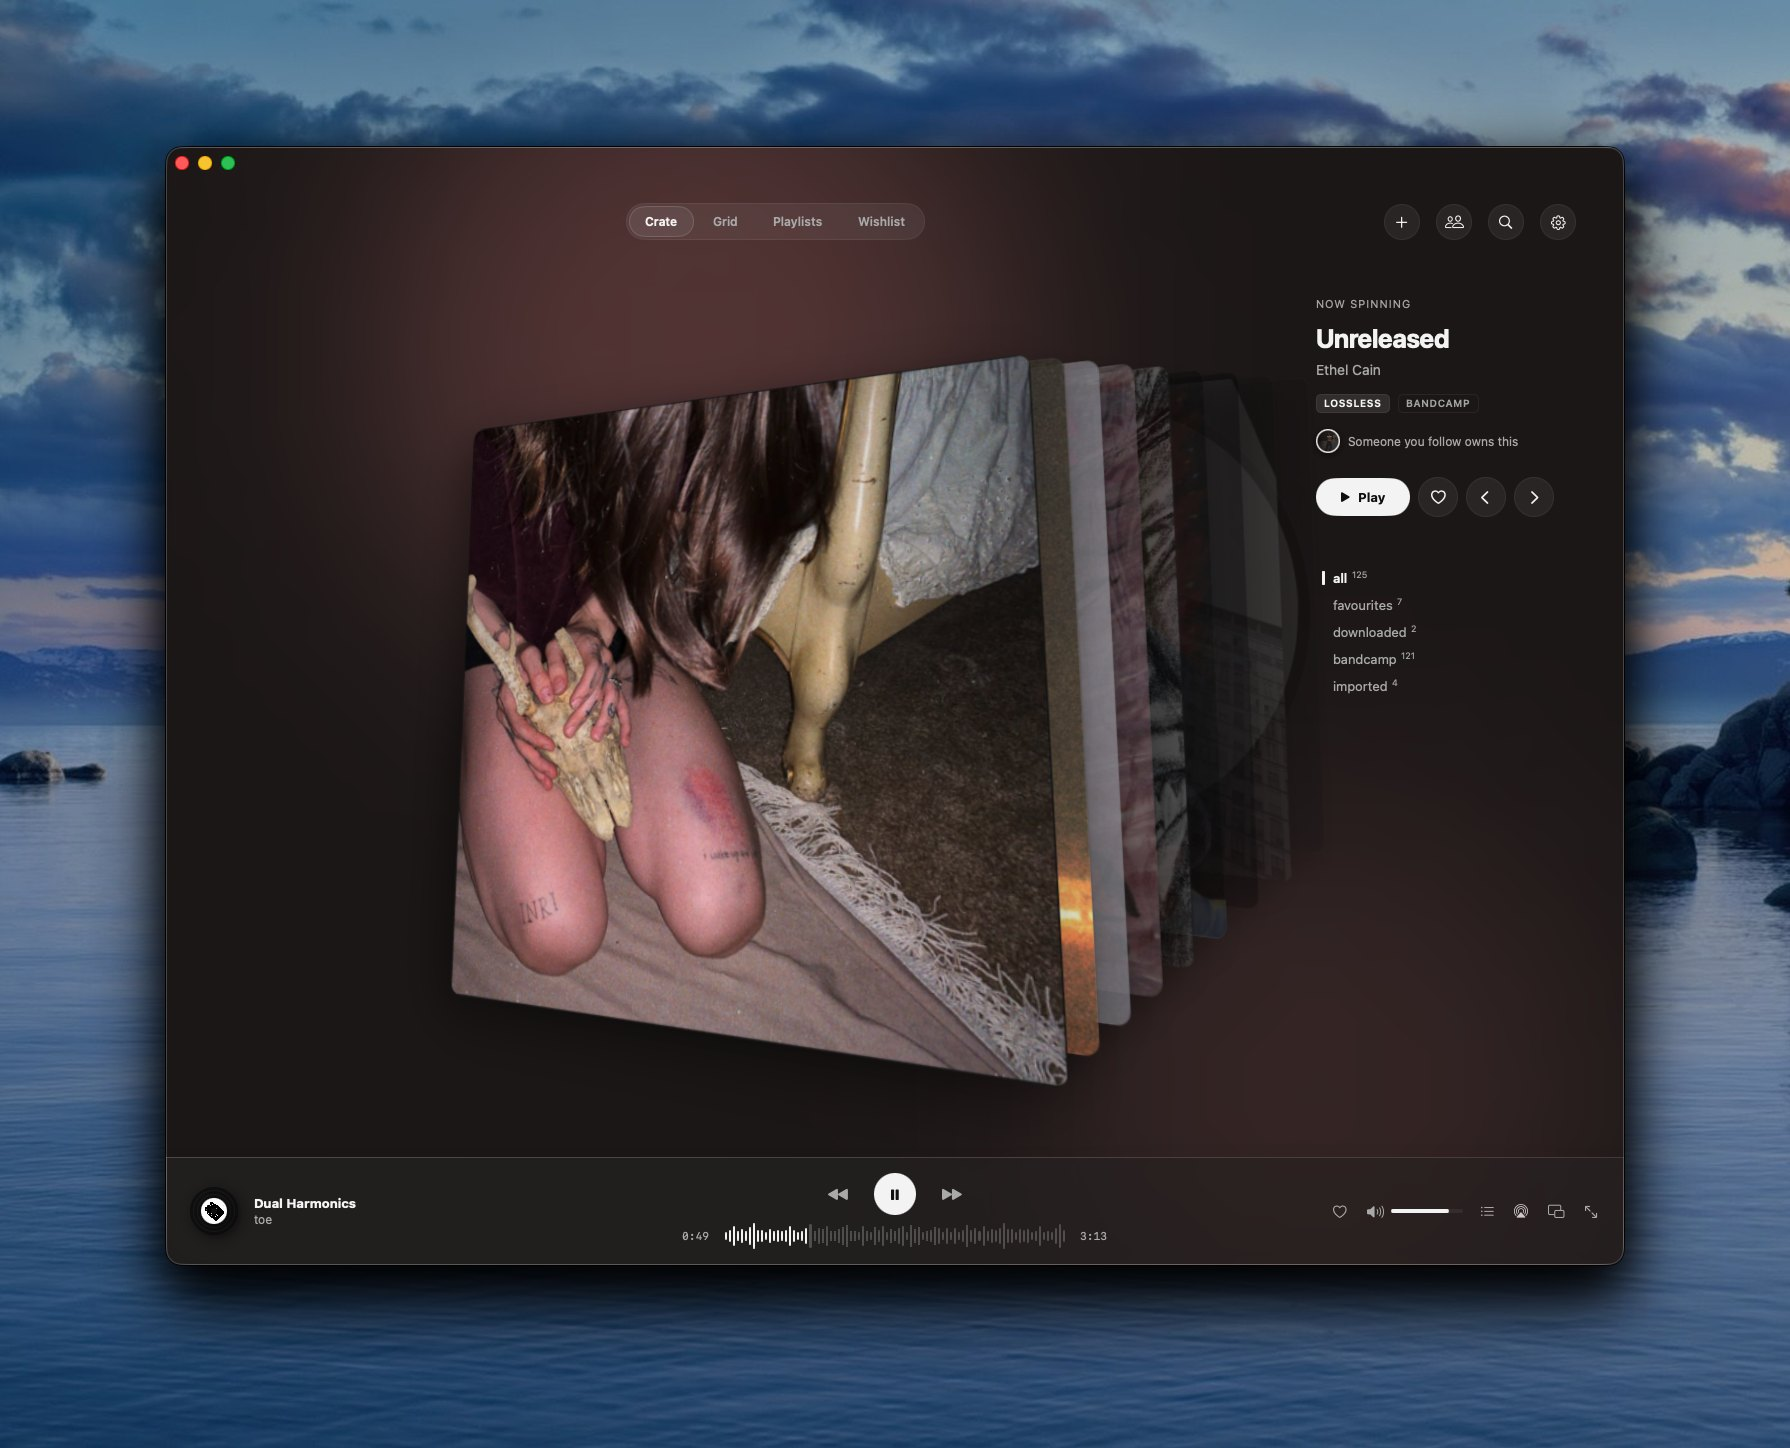
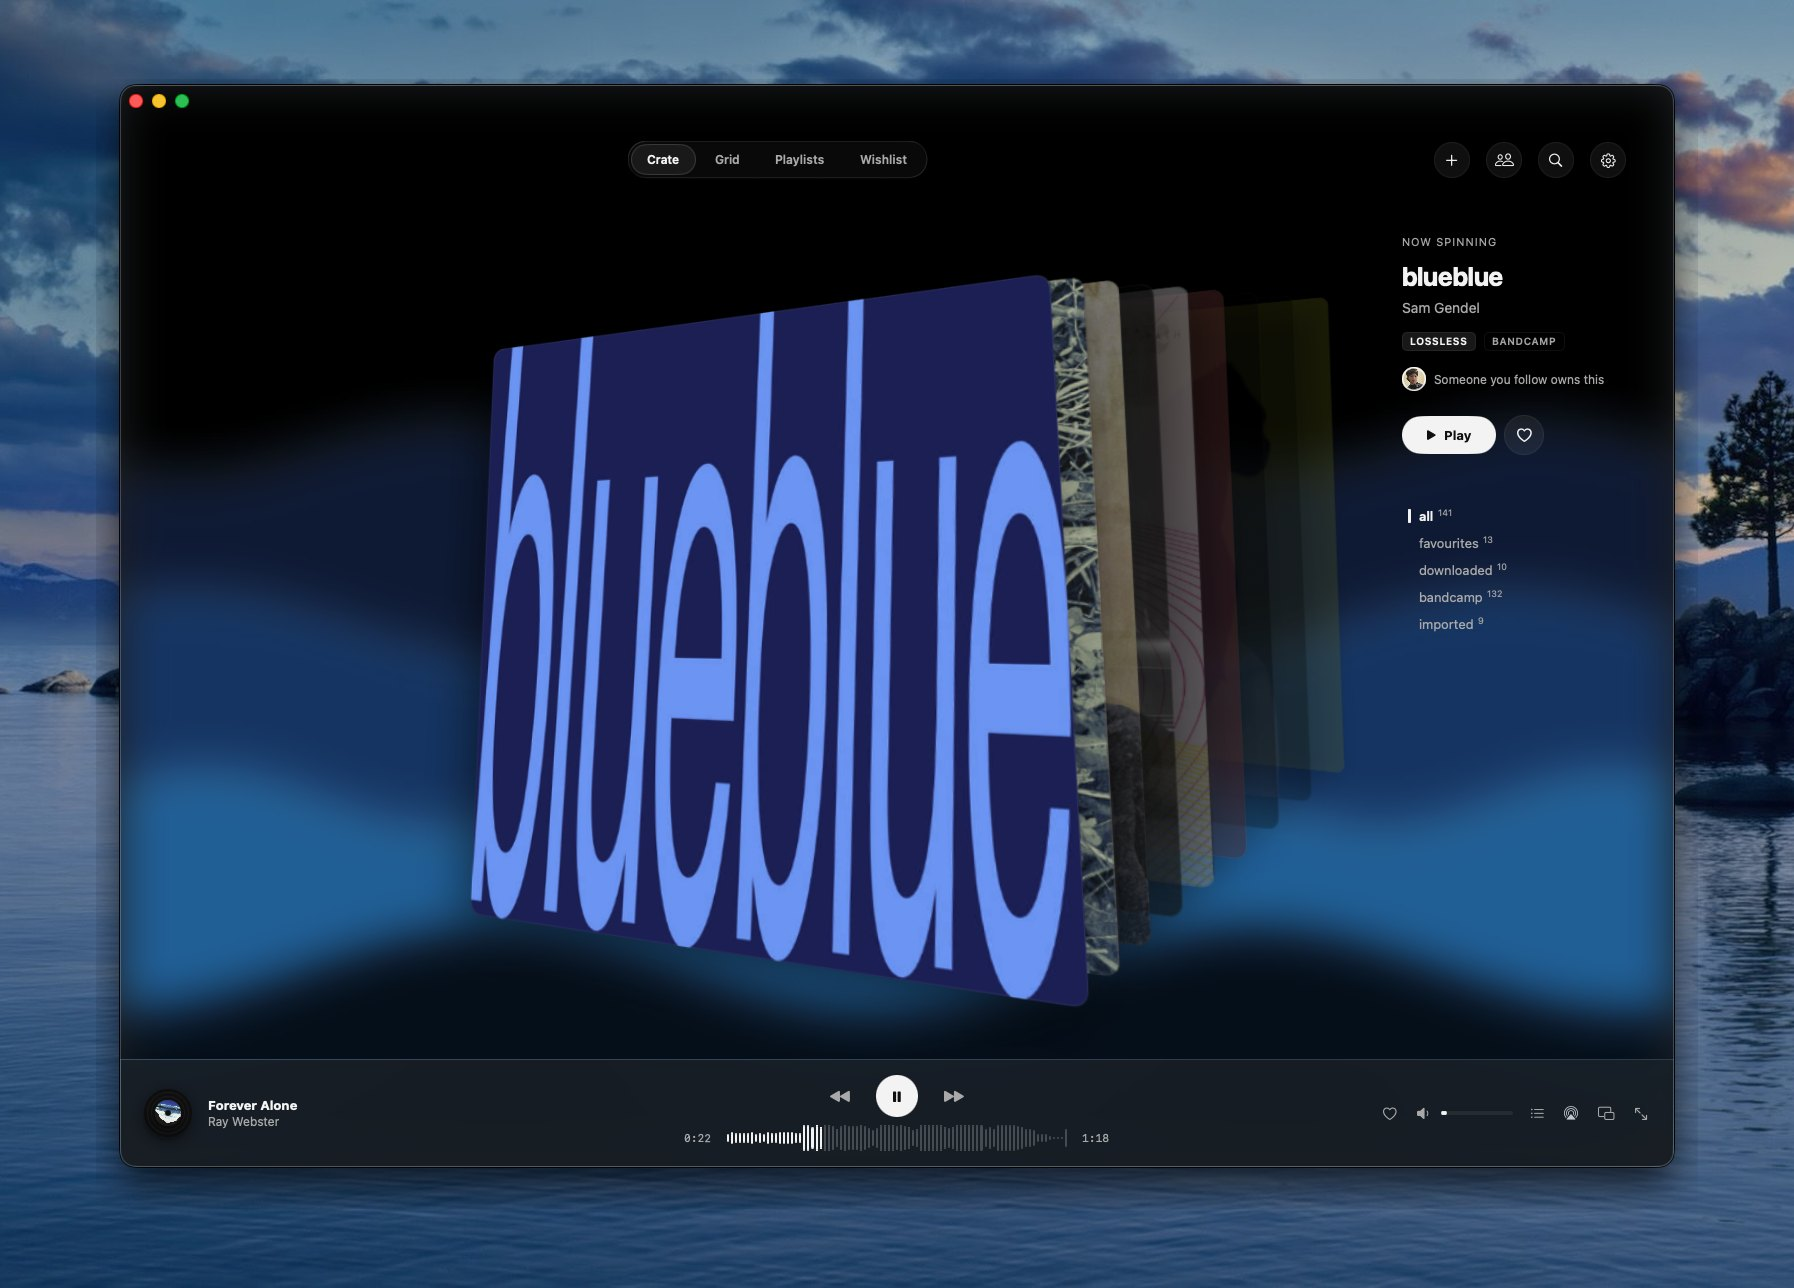
Yoin: update the Crate hero shot (new capture), cache-bust ?v=2

diff --git a/yoin/index.html b/yoin/index.html
@@ -70,7 +70,7 @@
       </div>
 
       <div class="shots">
-        <figure class="shot"><img src="/assets/work/yoin-crate.jpg" width="1790" height="1448" loading="eager" fetchpriority="high" decoding="async" alt="Yoin's Crate view — album covers fanned out in a cover-flow, with a Now Spinning panel showing the current record" /><figcaption>Your collection as a crate — flip through the covers</figcaption></figure>
+        <figure class="shot"><img src="/assets/work/yoin-crate.jpg?v=2" width="1794" height="1288" loading="eager" fetchpriority="high" decoding="async" alt="Yoin's Crate view — album covers fanned out in a cover-flow, with a Now Spinning panel showing the current record" /><figcaption>Your collection as a crate — flip through the covers</figcaption></figure>
         <figure class="shot"><img src="/assets/work/yoin-lyrics.jpg" width="1597" height="1596" loading="lazy" decoding="async" alt="Yoin's Now Playing screen with time-synced lyrics scrolling beside the spinning record" /><figcaption>Now Playing with time-synced lyrics</figcaption></figure>
         <figure class="shot"><img src="/assets/work/yoin-turntable.jpg" width="1790" height="1448" loading="lazy" decoding="async" alt="Yoin's turntable Now Playing — the record on a platter with a DJ speed fader" /><figcaption>A turntable Now Playing with DJ speed control</figcaption></figure>
         <figure class="shot"><img src="/assets/work/yoin-album.jpg" width="1790" height="1448" loading="lazy" decoding="async" alt="Yoin's album view — the track list for an album with play, download and credits" /><figcaption>Every album, with its tracks and credits</figcaption></figure>
